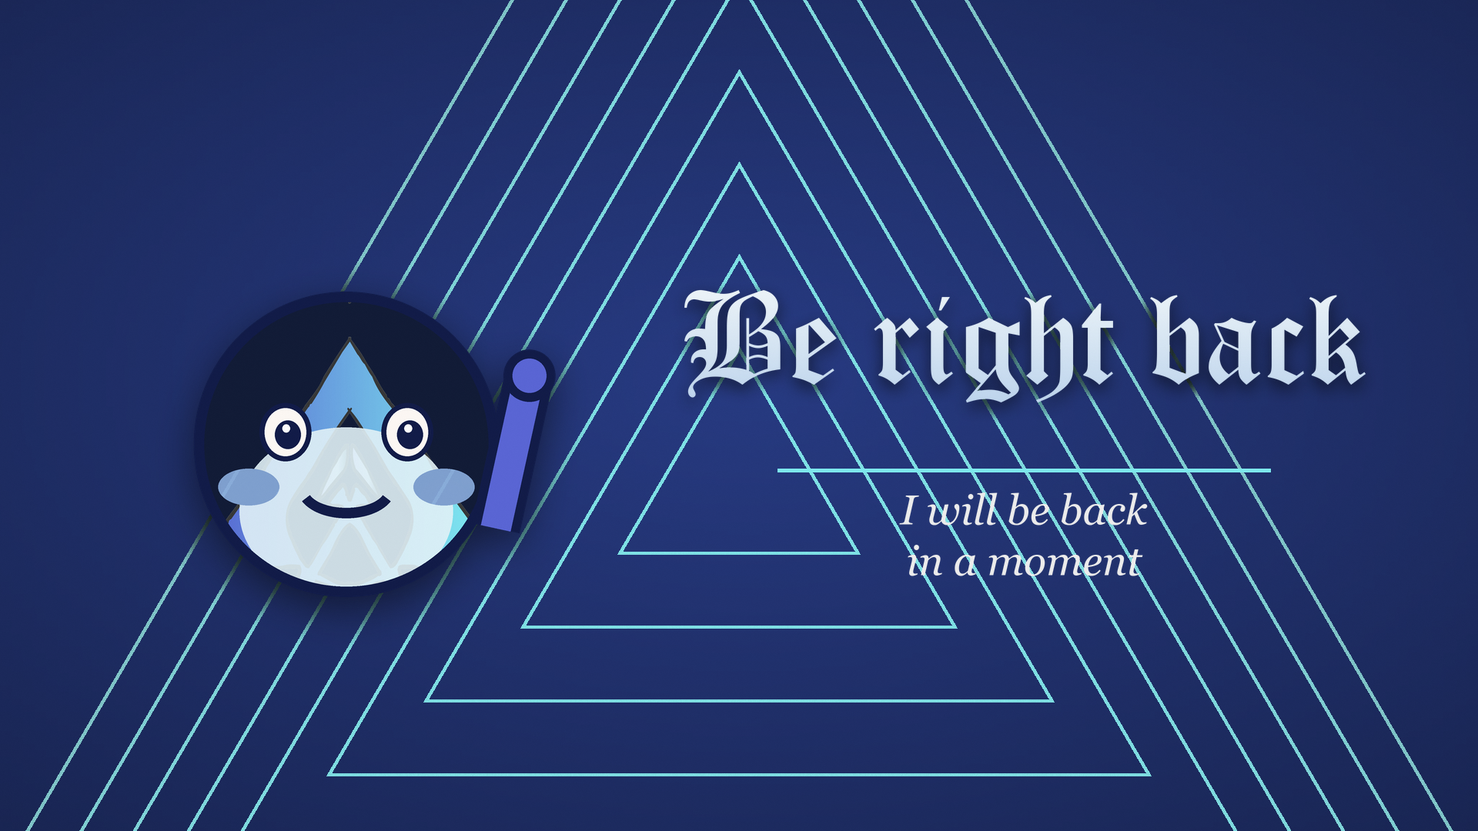
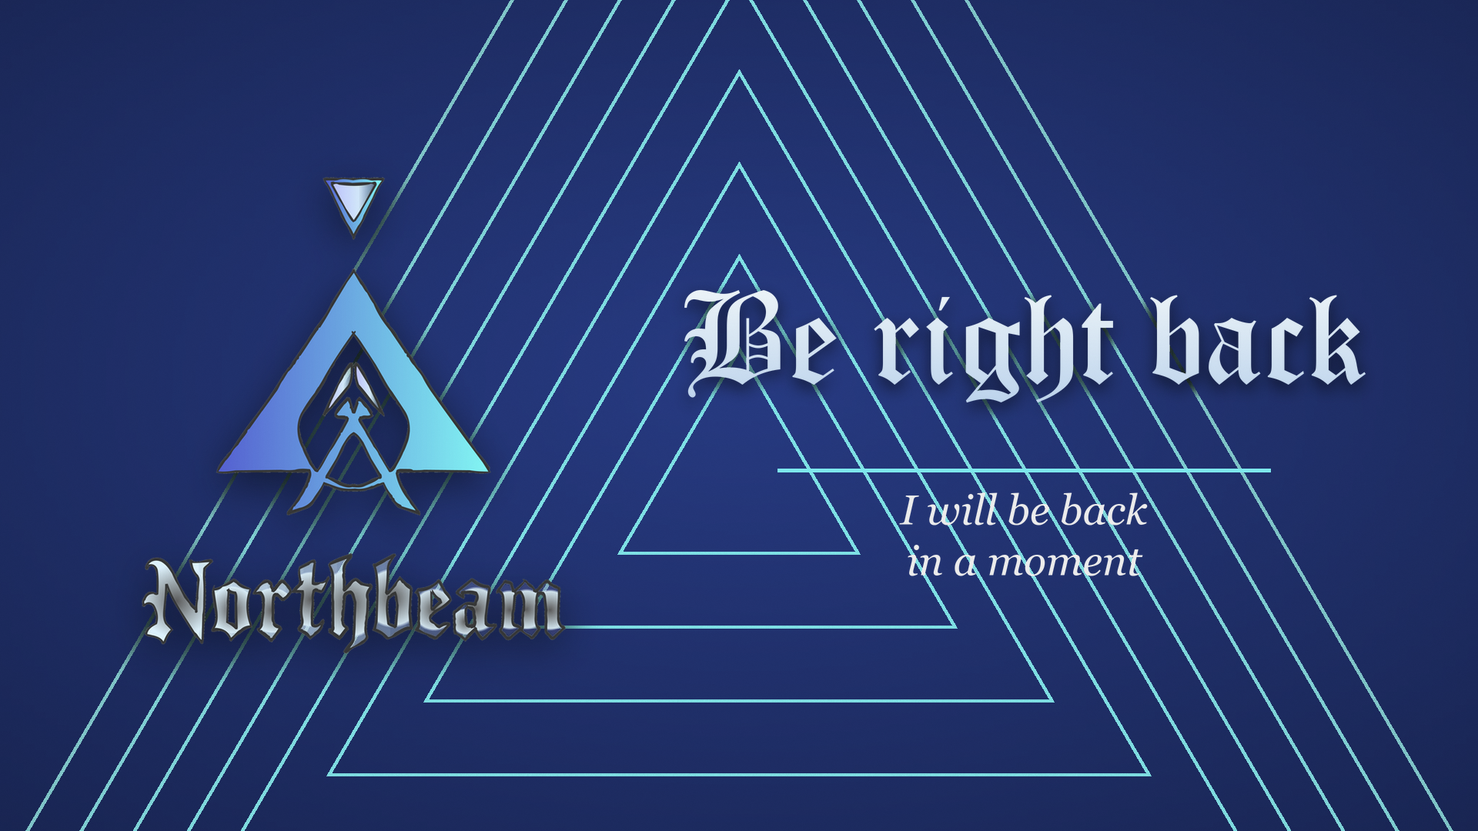
Added screens

Changed region(s): [[0.0938, 0.3056, 0.4062, 0.7944], [0.2188, 0.2139, 0.2812, 0.275]]

diff --git a/index.html b/index.html
@@ -7432,7 +7432,7 @@
       <a class="proj-btn" href="images/twitch/Perfum/Alert/alert.gif?v=a2f8e983" target="_blank" rel="noopener" title="Twitch stream alert animation: Perfum alert">Perfum alert (animated)</a>
       <a class="proj-btn" href="images/twitch/Alert/petals_alert.gif?v=cd54a4eb" target="_blank" rel="noopener" title="Twitch stream alert animation: Petals alert">Petals alert (animated)</a>
       <a class="proj-btn" href="images/twitch/Purple/Alert/purple_alert.gif?v=4e29ec18" target="_blank" rel="noopener" title="Twitch stream alert animation: Purple alert">Purple alert (animated)</a>
-      <a class="proj-btn" href="images/twitch/Rose/Alert/alert.gif?v=8b1a5a34" target="_blank" rel="noopener" title="Twitch stream alert animation: Rose alert">Rose alert (animated)</a>
+      <a class="proj-btn" href="images/twitch/Rose/Alert/alert.gif?v=230c1e3a" target="_blank" rel="noopener" title="Twitch stream alert animation: Rose alert">Rose alert (animated)</a>
       <a class="proj-btn" href="images/twitch/Slash/Alert/alert.gif?v=811fe91e" target="_blank" rel="noopener" title="Twitch stream alert animation: Slash alert">Slash alert (animated)</a>
       <a class="proj-btn" href="images/twitch/Snake/Alert/alert.gif?v=f6da8953" target="_blank" rel="noopener" title="Twitch stream alert animation: Snake alert">Snake alert (animated)</a>
       <a class="proj-btn" href="images/twitch/Strikeline/Alert/alert.gif?v=c83599fa" target="_blank" rel="noopener" title="Twitch stream alert animation: Strikeline alert">Strikeline alert (animated)</a>
@@ -7447,7 +7447,7 @@
       <a class="proj-btn" href="images/twitch/Perfum/Corner/corner.gif?v=40f950c5" target="_blank" rel="noopener" title="Twitch stream corner animation: Perfum corner">Perfum corner (animated)</a>
       <a class="proj-btn" href="images/twitch/Corner/petals_corner.gif?v=c41eb1f4" target="_blank" rel="noopener" title="Twitch stream corner animation: Petals corner">Petals corner (animated)</a>
       <a class="proj-btn" href="images/twitch/Purple/Corner/corner.gif?v=b00511df" target="_blank" rel="noopener" title="Twitch stream corner animation: Purple corner">Purple corner (animated)</a>
-      <a class="proj-btn" href="images/twitch/Rose/Corner/corner.gif?v=1ee7d63c" target="_blank" rel="noopener" title="Twitch stream corner animation: Rose corner">Rose corner (animated)</a>
+      <a class="proj-btn" href="images/twitch/Rose/Corner/corner.gif?v=1f63ce93" target="_blank" rel="noopener" title="Twitch stream corner animation: Rose corner">Rose corner (animated)</a>
       <a class="proj-btn" href="images/twitch/Slash/Corner/corner.gif?v=d30229d9" target="_blank" rel="noopener" title="Twitch stream corner animation: Slash corner">Slash corner (animated)</a>
       <a class="proj-btn" href="images/twitch/Snake/Corner/corner.gif?v=42874b33" target="_blank" rel="noopener" title="Twitch stream corner animation: Snake corner">Snake corner (animated)</a>
       <a class="proj-btn" href="images/twitch/Strikeline/Corner/corner.gif?v=594b39d4" target="_blank" rel="noopener" title="Twitch stream corner animation: Strikeline corner">Strikeline corner (animated)</a>
@@ -7461,7 +7461,7 @@
       <a class="proj-btn" href="images/twitch/Northbeam/Overlay/overlay_frame.png?v=f4411dad" target="_blank" rel="noopener" title="Twitch stream overlay: Northbeam overlay frame">Northbeam overlay frame</a>
       <a class="proj-btn" href="images/twitch/Perfum/Overlay/overlay_frame.png?v=fcd83f94" target="_blank" rel="noopener" title="Twitch stream overlay: Perfum overlay frame">Perfum overlay frame</a>
       <a class="proj-btn" href="images/twitch/Purple/Overlay/purple_overlay_frame.png?v=a7251d08" target="_blank" rel="noopener" title="Twitch stream overlay: Purple overlay frame">Purple overlay frame</a>
-      <a class="proj-btn" href="images/twitch/Rose/Overlay/overlay_frame.png?v=16ceab5f" target="_blank" rel="noopener" title="Twitch stream overlay: Rose overlay frame">Rose overlay frame</a>
+      <a class="proj-btn" href="images/twitch/Rose/Overlay/overlay_frame.png?v=521066d1" target="_blank" rel="noopener" title="Twitch stream overlay: Rose overlay frame">Rose overlay frame</a>
       <a class="proj-btn" href="images/twitch/Slash/Overlay/overlay_frame.png?v=25c0b3d7" target="_blank" rel="noopener" title="Twitch stream overlay: Slash overlay frame">Slash overlay frame</a>
       <a class="proj-btn" href="images/twitch/Snake/Overlay/overlay_frame.png?v=743c44f9" target="_blank" rel="noopener" title="Twitch stream overlay: Snake overlay frame">Snake overlay frame</a>
       <a class="proj-btn" href="images/twitch/Strikeline/Overlay/overlay_frame.png?v=4387d2ef" target="_blank" rel="noopener" title="Twitch stream overlay: Strikeline overlay frame">Strikeline overlay frame</a>
@@ -7584,52 +7584,52 @@
         <div class="btn-grid">
       <a class="proj-btn" href="images/twitch/Floral/Screens/starting_soon.png?v=47779fa3" target="_blank" rel="noopener" title="Twitch starting soon screen: Floral starting soon">Floral starting soon</a>
       <a class="proj-btn" href="images/twitch/Helmet/Screens/starting_soon.png?v=833e0e2e" target="_blank" rel="noopener" title="Twitch starting soon screen: Helmet starting soon">Helmet starting soon</a>
-      <a class="proj-btn" href="images/twitch/Hood/Screens/starting_soon.png?v=01acab33" target="_blank" rel="noopener" title="Twitch starting soon screen: Hood starting soon">Hood starting soon</a>
-      <a class="proj-btn" href="images/twitch/Northbeam/Screens/starting_soon.png?v=ac896440" target="_blank" rel="noopener" title="Twitch starting soon screen: Northbeam starting soon">Northbeam starting soon</a>
-      <a class="proj-btn" href="images/twitch/Perfum/Screens/starting_soon.png?v=ad2049c7" target="_blank" rel="noopener" title="Twitch starting soon screen: Perfum starting soon">Perfum starting soon</a>
+      <a class="proj-btn" href="images/twitch/Hood/Screens/starting_soon.png?v=8eae8ecb" target="_blank" rel="noopener" title="Twitch starting soon screen: Hood starting soon">Hood starting soon</a>
+      <a class="proj-btn" href="images/twitch/Northbeam/Screens/starting_soon.png?v=bb77082c" target="_blank" rel="noopener" title="Twitch starting soon screen: Northbeam starting soon">Northbeam starting soon</a>
+      <a class="proj-btn" href="images/twitch/Perfum/Screens/starting_soon.png?v=c049fc5a" target="_blank" rel="noopener" title="Twitch starting soon screen: Perfum starting soon">Perfum starting soon</a>
       <a class="proj-btn" href="images/twitch/Starting/petals_starting_soon.png?v=51b6c88b" target="_blank" rel="noopener" title="Twitch starting soon screen: Petals starting soon">Petals starting soon</a>
       <a class="proj-btn" href="images/twitch/Purple/Screens/starting_soon.png?v=b0d66def" target="_blank" rel="noopener" title="Twitch starting soon screen: Purple starting soon">Purple starting soon</a>
-      <a class="proj-btn" href="images/twitch/Rose/Screens/starting_soon.png?v=19629653" target="_blank" rel="noopener" title="Twitch starting soon screen: Rose starting soon">Rose starting soon</a>
+      <a class="proj-btn" href="images/twitch/Rose/Screens/starting_soon.png?v=5624833a" target="_blank" rel="noopener" title="Twitch starting soon screen: Rose starting soon">Rose starting soon</a>
       <a class="proj-btn" href="images/twitch/Slash/Screens/starting_soon.png?v=41485867" target="_blank" rel="noopener" title="Twitch starting soon screen: Slash starting soon">Slash starting soon</a>
       <a class="proj-btn" href="images/twitch/Snake/Screens/snake_starting_soon.png?v=93d3d4d4" target="_blank" rel="noopener" title="Twitch starting soon screen: Snake starting soon">Snake starting soon</a>
-      <a class="proj-btn" href="images/twitch/Strikeline/Screens/starting_soon.png?v=0226cb24" target="_blank" rel="noopener" title="Twitch starting soon screen: Strikeline starting soon">Strikeline starting soon</a>
-      <a class="proj-btn" href="images/twitch/Tessel/Screens/starting_soon.png?v=54d7b08a" target="_blank" rel="noopener" title="Twitch starting soon screen: Tessel starting soon">Tessel starting soon</a>
+      <a class="proj-btn" href="images/twitch/Strikeline/Screens/starting_soon.png?v=b0080798" target="_blank" rel="noopener" title="Twitch starting soon screen: Strikeline starting soon">Strikeline starting soon</a>
+      <a class="proj-btn" href="images/twitch/Tessel/Screens/starting_soon.png?v=3a322e53" target="_blank" rel="noopener" title="Twitch starting soon screen: Tessel starting soon">Tessel starting soon</a>
     </div>
         <h3 class="gallery-title">Be right back screen</h3>
         <div class="btn-grid">
       <a class="proj-btn" href="images/twitch/Floral/Screens/be_right_back.png?v=8fd3083b" target="_blank" rel="noopener" title="Twitch be right back screen: Floral be right back">Floral be right back</a>
       <a class="proj-btn" href="images/twitch/Helmet/Screens/be_right_back.png?v=df3bb43a" target="_blank" rel="noopener" title="Twitch be right back screen: Helmet be right back">Helmet be right back</a>
-      <a class="proj-btn" href="images/twitch/Hood/Screens/be_right_back.png?v=3c0fbe21" target="_blank" rel="noopener" title="Twitch be right back screen: Hood be right back">Hood be right back</a>
-      <a class="proj-btn" href="images/twitch/Northbeam/Screens/be_right_back.png?v=e1b2ae9b" target="_blank" rel="noopener" title="Twitch be right back screen: Northbeam be right back">Northbeam be right back</a>
-      <a class="proj-btn" href="images/twitch/Perfum/Screens/be_right_back.png?v=dd4dfae4" target="_blank" rel="noopener" title="Twitch be right back screen: Perfum be right back">Perfum be right back</a>
+      <a class="proj-btn" href="images/twitch/Hood/Screens/be_right_back.png?v=964c4a23" target="_blank" rel="noopener" title="Twitch be right back screen: Hood be right back">Hood be right back</a>
+      <a class="proj-btn" href="images/twitch/Northbeam/Screens/be_right_back.png?v=dae5a8fb" target="_blank" rel="noopener" title="Twitch be right back screen: Northbeam be right back">Northbeam be right back</a>
+      <a class="proj-btn" href="images/twitch/Perfum/Screens/be_right_back.png?v=93046b5e" target="_blank" rel="noopener" title="Twitch be right back screen: Perfum be right back">Perfum be right back</a>
       <a class="proj-btn" href="images/twitch/Purple/Screens/be_right_back.png?v=fd0c8de1" target="_blank" rel="noopener" title="Twitch be right back screen: Purple be right back">Purple be right back</a>
-      <a class="proj-btn" href="images/twitch/Rose/Screens/be_right_back.png?v=7b8009c2" target="_blank" rel="noopener" title="Twitch be right back screen: Rose be right back">Rose be right back</a>
+      <a class="proj-btn" href="images/twitch/Rose/Screens/be_right_back.png?v=778c3a1a" target="_blank" rel="noopener" title="Twitch be right back screen: Rose be right back">Rose be right back</a>
       <a class="proj-btn" href="images/twitch/Slash/Screens/be_right_back.png?v=adc13e01" target="_blank" rel="noopener" title="Twitch be right back screen: Slash be right back">Slash be right back</a>
       <a class="proj-btn" href="images/twitch/Snake/Screens/be_right_back.png?v=942954a0" target="_blank" rel="noopener" title="Twitch be right back screen: Snake be right back">Snake be right back</a>
-      <a class="proj-btn" href="images/twitch/Strikeline/Screens/be_right_back.png?v=c4d46ab0" target="_blank" rel="noopener" title="Twitch be right back screen: Strikeline be right back">Strikeline be right back</a>
-      <a class="proj-btn" href="images/twitch/Tessel/Screens/be_right_back.png?v=af597135" target="_blank" rel="noopener" title="Twitch be right back screen: Tessel be right back">Tessel be right back</a>
+      <a class="proj-btn" href="images/twitch/Strikeline/Screens/be_right_back.png?v=f782ad9e" target="_blank" rel="noopener" title="Twitch be right back screen: Strikeline be right back">Strikeline be right back</a>
+      <a class="proj-btn" href="images/twitch/Tessel/Screens/be_right_back.png?v=86392218" target="_blank" rel="noopener" title="Twitch be right back screen: Tessel be right back">Tessel be right back</a>
     </div>
         <h3 class="gallery-title">Offline screen</h3>
         <div class="btn-grid">
       <a class="proj-btn" href="images/twitch/Floral/offline.png?v=995c8b9d" target="_blank" rel="noopener" title="Twitch offline screen: Floral offline">Floral offline</a>
       <a class="proj-btn" href="images/twitch/Helmet/Screens/offline.png?v=f9eda2c1" target="_blank" rel="noopener" title="Twitch offline screen: Helmet offline">Helmet offline</a>
-      <a class="proj-btn" href="images/twitch/Hood/Screens/offline.png?v=02e3310c" target="_blank" rel="noopener" title="Twitch offline screen: Hood offline">Hood offline</a>
-      <a class="proj-btn" href="images/twitch/Northbeam/Screens/offline.png?v=d1450495" target="_blank" rel="noopener" title="Twitch offline screen: Northbeam offline">Northbeam offline</a>
-      <a class="proj-btn" href="images/twitch/Perfum/Screens/offline.png?v=180ae69f" target="_blank" rel="noopener" title="Twitch offline screen: Perfum offline">Perfum offline</a>
+      <a class="proj-btn" href="images/twitch/Hood/Screens/offline.png?v=9ba348c6" target="_blank" rel="noopener" title="Twitch offline screen: Hood offline">Hood offline</a>
+      <a class="proj-btn" href="images/twitch/Northbeam/Screens/offline.png?v=fc3b0bed" target="_blank" rel="noopener" title="Twitch offline screen: Northbeam offline">Northbeam offline</a>
+      <a class="proj-btn" href="images/twitch/Perfum/Screens/offline.png?v=f0876b29" target="_blank" rel="noopener" title="Twitch offline screen: Perfum offline">Perfum offline</a>
       <a class="proj-btn" href="images/twitch/Offline/petals_offline_screen.png?v=04cb868e" target="_blank" rel="noopener" title="Twitch offline screen: Petals offline screen">Petals offline screen</a>
       <a class="proj-btn" href="images/twitch/Purple/Screens/offline.png?v=9058a8cd" target="_blank" rel="noopener" title="Twitch offline screen: Purple offline">Purple offline</a>
-      <a class="proj-btn" href="images/twitch/Rose/Screens/offline.png?v=ae024831" target="_blank" rel="noopener" title="Twitch offline screen: Rose offline">Rose offline</a>
+      <a class="proj-btn" href="images/twitch/Rose/Screens/offline.png?v=ad13183b" target="_blank" rel="noopener" title="Twitch offline screen: Rose offline">Rose offline</a>
       <a class="proj-btn" href="images/twitch/Slash/Screens/offline.png?v=7358767b" target="_blank" rel="noopener" title="Twitch offline screen: Slash offline">Slash offline</a>
       <a class="proj-btn" href="images/twitch/Snake/Screens/offline.png?v=c7314c1a" target="_blank" rel="noopener" title="Twitch offline screen: Snake offline">Snake offline</a>
-      <a class="proj-btn" href="images/twitch/Strikeline/Screens/offline.png?v=0d091d4a" target="_blank" rel="noopener" title="Twitch offline screen: Strikeline offline">Strikeline offline</a>
-      <a class="proj-btn" href="images/twitch/Tessel/Screens/offline.png?v=8f86c450" target="_blank" rel="noopener" title="Twitch offline screen: Tessel offline">Tessel offline</a>
+      <a class="proj-btn" href="images/twitch/Strikeline/Screens/offline.png?v=a0ea8caf" target="_blank" rel="noopener" title="Twitch offline screen: Strikeline offline">Strikeline offline</a>
+      <a class="proj-btn" href="images/twitch/Tessel/Screens/offline.png?v=a8f40e90" target="_blank" rel="noopener" title="Twitch offline screen: Tessel offline">Tessel offline</a>
     </div>
         <h3 class="gallery-title">Logos</h3>
         <div class="btn-grid">
       <a class="proj-btn" href="images/twitch/Floral/Logo/logo.png?v=3f7aa40a" target="_blank" rel="noopener" title="Twitch channel logo: Floral logo">Floral logo</a>
       <a class="proj-btn" href="images/twitch/Logo/gamer_streamer_logo.png?v=1fb047be" target="_blank" rel="noopener" title="Twitch channel logo: Gamer streamer logo">Gamer streamer logo</a>
       <a class="proj-btn" href="images/twitch/Helmet/Logo/logo.png?v=4bb70308" target="_blank" rel="noopener" title="Twitch channel logo: Helmet logo">Helmet logo</a>
-      <a class="proj-btn" href="images/twitch/Hood/Logo/logo.png?v=0d68419e" target="_blank" rel="noopener" title="Twitch channel logo: Hood logo">Hood logo</a>
+      <a class="proj-btn" href="images/twitch/Hood/Logo/logo.png?v=1fb047be" target="_blank" rel="noopener" title="Twitch channel logo: Hood logo">Hood logo</a>
       <a class="proj-btn" href="images/twitch/Northbeam/Logo/logo.png?v=fa5748f4" target="_blank" rel="noopener" title="Twitch channel logo: Northbeam logo">Northbeam logo</a>
       <a class="proj-btn" href="images/twitch/Perfum/Logo/logo.png?v=983f5892" target="_blank" rel="noopener" title="Twitch channel logo: Perfum logo">Perfum logo</a>
       <a class="proj-btn" href="images/twitch/Logo/petals_helmet_logo.png?v=853463d0" target="_blank" rel="noopener" title="Twitch channel logo: Petals helmet logo">Petals helmet logo</a>

diff --git a/tools/make_rose_extras.py b/tools/make_rose_extras.py
@@ -1,0 +1,110 @@
+#!/usr/bin/env python3
+"""Rose set: its own screens, overlay, alert and corner (cream paper, slate leaves, red berry) - not the purple look."""
+import math
+from PIL import Image, ImageChops, ImageDraw, ImageFilter
+
+from art import *  # noqa: F401,F403
+import make_rose as mr
+
+OUT = ROOT / "images" / "twitch" / "Rose"
+W, H = 1920, 1080
+
+
+def leafy_border(size, step=150, scale=1.0):
+    w, h = size
+    layer = mr.layer(size, lambda d, S: [
+        (mr.leaf(d, S, x, y, 120 * scale, 30 * scale, math.radians(a), lw=8), mr.berry_dot(d, S, x + 6, y + 4, 12 * scale)) if k % 3 == 0 else mr.leaf(d, S, x, y, 120 * scale, 30 * scale, math.radians(a), lw=8)
+        for k, (x, y, a) in enumerate(
+            [(x, 40, 20 if (x // step) % 2 else 160) for x in range(90, w - 60, step)] +
+            [(x, h - 40, -20 if (x // step) % 2 else -160) for x in range(90, w - 60, step)] +
+            [(40, y, 70 if (y // step) % 2 else 110) for y in range(220, h - 150, step)] +
+            [(w - 40, y, 110 if (y // step) % 2 else 70) for y in range(220, h - 150, step)])])
+    return layer
+
+
+def paper(size):
+    img = radial(size, (246, 232, 224), (214, 190, 182), cx=0.5, cy=0.5, spread=1.0).convert("RGBA")
+    d = ImageDraw.Draw(img)
+    d.rounded_rectangle((22, 22, size[0] - 22, size[1] - 22), radius=60, outline=mr.INK + (255,), width=10)
+    d.rounded_rectangle((40, 40, size[0] - 40, size[1] - 40), radius=48, outline=mr.RED + (255,), width=5)
+    return Image.alpha_composite(img, leafy_border(size))
+
+
+def screen(title, lines, mood, extra, side):
+    img = paper((W, H))
+    hero = mr.emote(mood, extra, 600)
+    lay = Image.new("RGBA", (W, H), (0, 0, 0, 0))
+    hx = 190 if side == "left" else W - 790 if side == "right" else (W - 600) // 2
+    lay.alpha_composite(hero, (hx, 200 if side == "center" else 230))
+    img = shadow(img, lay.split()[3], (0, 14), 20, (60, 10, 20), 0.3)
+    img = Image.alpha_composite(img, lay)
+    cx = W - 520 if side == "left" else 520 if side == "right" else W / 2
+    cy = 520 if side != "center" else 860
+    sz = 170
+    m = text_mask((W, H), title, font("georgiab.ttf", sz), (cx, cy))
+    img = fill_mask(img, m, mr.INK, (110, 14, 30))
+    d = ImageDraw.Draw(img)
+    d.line([(cx - 300, cy + 40), (cx + 300, cy + 40)], fill=mr.RED + (255,), width=6)
+    for k, ln in enumerate(lines):
+        img = fill_mask(img, text_mask((W, H), ln, font("georgiai.ttf", 56), (cx, cy + 110 + k * 66)), (100, 20, 34))
+    return grain(img, 6)
+
+
+def overlay():
+    img = Image.new("RGBA", (W, H), (0, 0, 0, 0))
+    d = ImageDraw.Draw(img)
+    d.rounded_rectangle((10, 10, W - 10, H - 10), radius=60, outline=mr.INK + (255,), width=14)
+    d.rounded_rectangle((28, 28, W - 28, H - 28), radius=48, outline=(250, 236, 228, 255), width=18)
+    d.rounded_rectangle((52, 52, W - 52, H - 52), radius=36, outline=mr.RED + (255,), width=6)
+    img = Image.alpha_composite(img, leafy_border((W, H), 170, 1.1))
+    for (x, y) in ((140, 130), (W - 140, 130), (W - 140, H - 130)):
+        r = mr.layer((260, 260), lambda dd, S: mr.rose(dd, S, 130, 130, 110, layers=4))
+        img.alpha_composite(r, (x - 130, y - 130))
+    cx0, cy0, cx1, cy1 = 90, H - 90 - 300, 90 + 533, H - 90
+    cut = Image.new("L", (W, H), 255)
+    ImageDraw.Draw(cut).rounded_rectangle((cx0, cy0, cx1, cy1), radius=30, fill=0)
+    cam = Image.new("RGBA", (W, H), (0, 0, 0, 0))
+    ImageDraw.Draw(cam).rounded_rectangle((cx0 - 14, cy0 - 14, cx1 + 14, cy1 + 14), radius=40, outline=(250, 236, 228, 255), width=14)
+    ImageDraw.Draw(cam).rounded_rectangle((cx0 - 2, cy0 - 2, cx1 + 2, cy1 + 2), radius=32, outline=mr.RED + (255,), width=6)
+    img = Image.alpha_composite(img, cam)
+    img.putalpha(ImageChops.multiply(img.split()[3], cut))
+    return img
+
+
+def shine(base, n=26):
+    w, h = base.size
+    frames = []
+    for i in range(n):
+        x = -80 + (w + 160) * i / (n - 1)
+        sh = Image.new("RGBA", (w, h), (0, 0, 0, 0))
+        ImageDraw.Draw(sh).polygon([(x, 0), (x + 46, 0), (x - 28, h), (x - 74, h)], fill=(255, 255, 255, 130))
+        sh = sh.filter(ImageFilter.GaussianBlur(6))
+        wm = Image.new("RGBA", (w, h), (255, 255, 255, 0))
+        wm.putalpha(ImageChops.multiply(sh.split()[3], base.split()[3]))
+        frames.append(Image.alpha_composite(base, wm))
+    return frames
+
+
+def gif(frames, p):
+    p.parent.mkdir(parents=True, exist_ok=True)
+    frames[0].save(p, save_all=True, append_images=frames[1:], duration=50, disposal=2, loop=0, optimize=False)
+
+
+def main():
+    for fn, t, ls, mood, extra, side in (("starting_soon", "Starting soon", ["The stream begins shortly"], "party", "party", "center"),
+                                        ("be_right_back", "Be right back", ["I will be back", "in a moment"], "hi", "wave", "left"),
+                                        ("offline", "Offline", ["Thank you for watching,", "see you next time"], "sleepy", "zzz", "right")):
+        p = OUT / "Screens" / (fn + ".png")
+        p.parent.mkdir(parents=True, exist_ok=True)
+        screen(t, ls, mood, extra, side).convert("RGB").save(p, optimize=True)
+    (OUT / "Overlay").mkdir(parents=True, exist_ok=True)
+    overlay().save(OUT / "Overlay" / "overlay_frame.png", optimize=True)
+    a = mr.panel("Thanks for the follow!", "about").resize((800, 250), Image.LANCZOS).convert("RGBA")
+    gif(shine(a), OUT / "Alert" / "alert.gif")
+    c = mr.panel("Petals Of Iron", "links").resize((440, 138), Image.LANCZOS).convert("RGBA")
+    gif(shine(c, 30), OUT / "Corner" / "corner.gif")
+    print("done")
+
+
+if __name__ == "__main__":
+    main()

diff --git a/tools/make_screens.py b/tools/make_screens.py
@@ -82,22 +82,61 @@ BG = {"Tessel": bg_tessel, "Perfum": bg_perfum, "Northbeam": bg_northbeam, "Stri
 DARK_TEXT = {"Perfum"}
 
 
+
+_HERO = {}
+
+
+def hero_art(name, px):
+    """The set's own artwork, fitted into a square of px (transparent background)."""
+    key = (name, px)
+    if key in _HERO:
+        return _HERO[key]
+    art = None
+    if name == "Northbeam":
+        import make_northbeam as nb
+        em, wd = (nb.crop_pad(p) for p in nb.split_logo(nb.load_logo()))
+        art = nb.fit(nb.lockup(em, wd), px, px)
+    elif name == "Strikeline":
+        import make_football as mf
+        art = mf.fit(mf.figure(), px, px)
+    elif name == "Tessel":
+        import make_brands as mb
+        art = mb.load("Footballboot.png", size=(1400, 1400))
+    elif name == "Perfum":
+        import make_brands as mb
+        b = mb.load("Bottle.png")
+        art = mb.feather_x(b.crop((1700, 1900, 2900, 3900)), 0, bottom=0)
+    elif name == "Hood":
+        art = Image.open(ROOT / "images" / "LogoGaming.png").convert("RGBA").resize((px, px), Image.LANCZOS)
+    if art is not None:
+        box = art.split()[3].point(lambda v: 255 if v > 10 else 0).getbbox()
+        if box:
+            art = art.crop(box)
+        k = min(px / art.width, px / art.height)
+        art = art.resize((max(1, round(art.width * k)), max(1, round(art.height * k))), Image.LANCZOS)
+    _HERO[key] = art
+    return art
+
+
 def compose(name, kind):
     C = dict(ms.SETS[name])
     ms.apply_set(C)
     title, sub, mood, extra = TEXT[kind]
     img = BG[name]()
-    hero_px = {"starting": 560, "brb": 600, "offline": 460}[kind]
-    hero = mr.emote(mood, extra, hero_px)
+    hero_px = {"starting": 400, "brb": 620, "offline": 500}[kind]
+    art = hero_art(name, hero_px)
+    hero = art if art is not None else mr.emote(mood, extra, hero_px)
     lay = Image.new("RGBA", (W, H), (0, 0, 0, 0))
+    hw, hh = hero.size
+    mirror = name in ("Perfum", "Strikeline") and kind != "starting"
     if kind == "starting":
-        lay.alpha_composite(hero, ((W - hero_px) // 2, 40))
-        tpos, align = (W / 2, 780), "center"
-    elif kind == "brb":
-        lay.alpha_composite(hero, (150, (H - hero_px) // 2))
+        lay.alpha_composite(hero, ((W - hw) // 2, 70 + (400 - hh) // 2))
+        tpos, align = (W / 2, 800), "center"
+    elif (kind == "brb") != mirror:
+        lay.alpha_composite(hero, (150 + (hero_px - hw) // 2, (H - hh) // 2))
         tpos, align = (1330, 500), "center"
     else:
-        lay.alpha_composite(hero, (W - hero_px - 190, (H - hero_px) // 2 + 20))
+        lay.alpha_composite(hero, (W - hw - 190, (H - hh) // 2 + 20))
         tpos, align = (640, 500), "center"
     if kind == "offline":
         img = Image.alpha_composite(img, Image.new("RGBA", (W, H), (0, 0, 0, 90)))
@@ -107,7 +146,7 @@ def compose(name, kind):
     t1, t2 = ((C["text"], C["text2"]) if dark else (C["text"] if sum(C["text"]) > 600 else (250, 250, 250), C["text2"] if sum(C["text"]) > 600 else (214, 224, 236)))
     if dark:
         t1, t2 = (96, 34, 60), (70, 22, 44)
-    sz = ms.fit_size(title, C["font"], 900 if kind != "starting" else 1300, 190)
+    sz = ms.fit_size(title, C["font"], 900 if kind != "starting" else 1300, 190 if kind != "starting" else 150)
     m = text_mask((W, H), title, font(C["font"], sz), (tpos[0], tpos[1] + (0 if kind != "starting" else 0)))
     if not dark:
         img = shadow(img, m, (0, 8), 10, (0, 0, 0), 0.6)
@@ -191,6 +230,10 @@ def main():
                 img = floral(kind)
             elif name == "Snake":
                 img = snake(kind)
+            elif name == "Hood":
+                import make_hood as mh
+                t, sb, _, _ = TEXT[kind]
+                img = mh.screen(t, " ".join(sb))
             else:
                 img = compose(name, kind)
             save(img, TW / name / "Screens" / (fn + ".png"))
